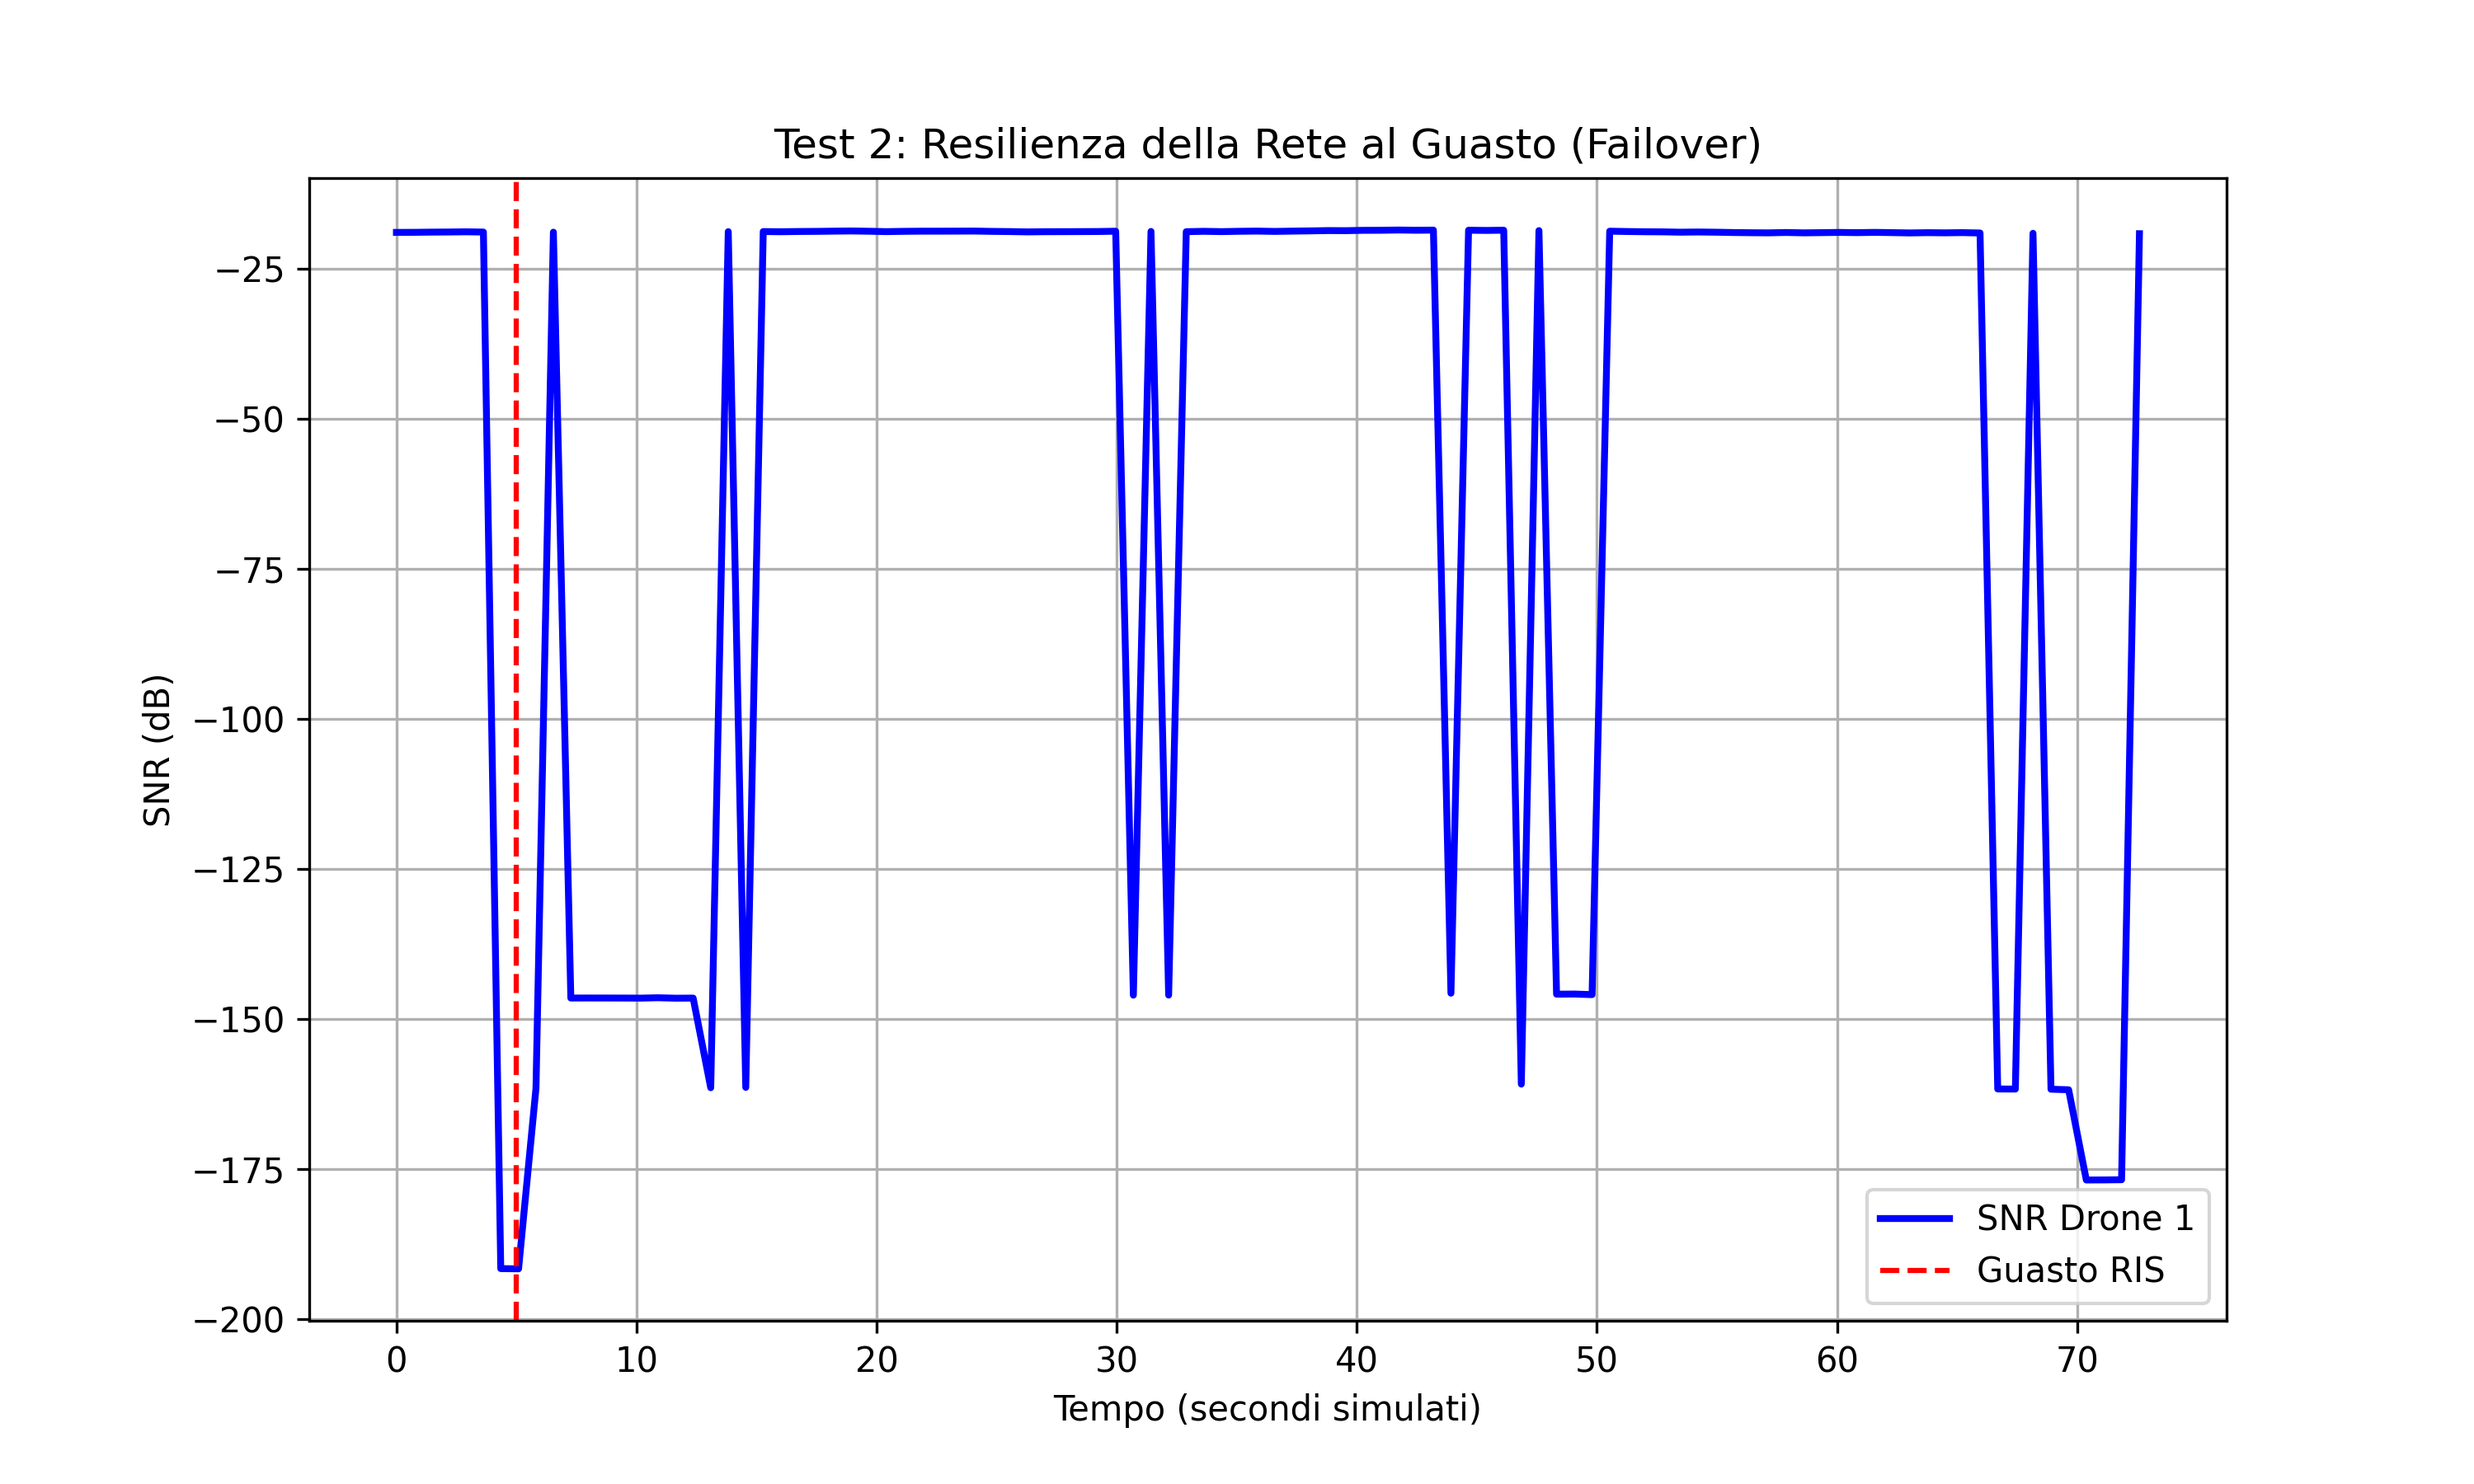
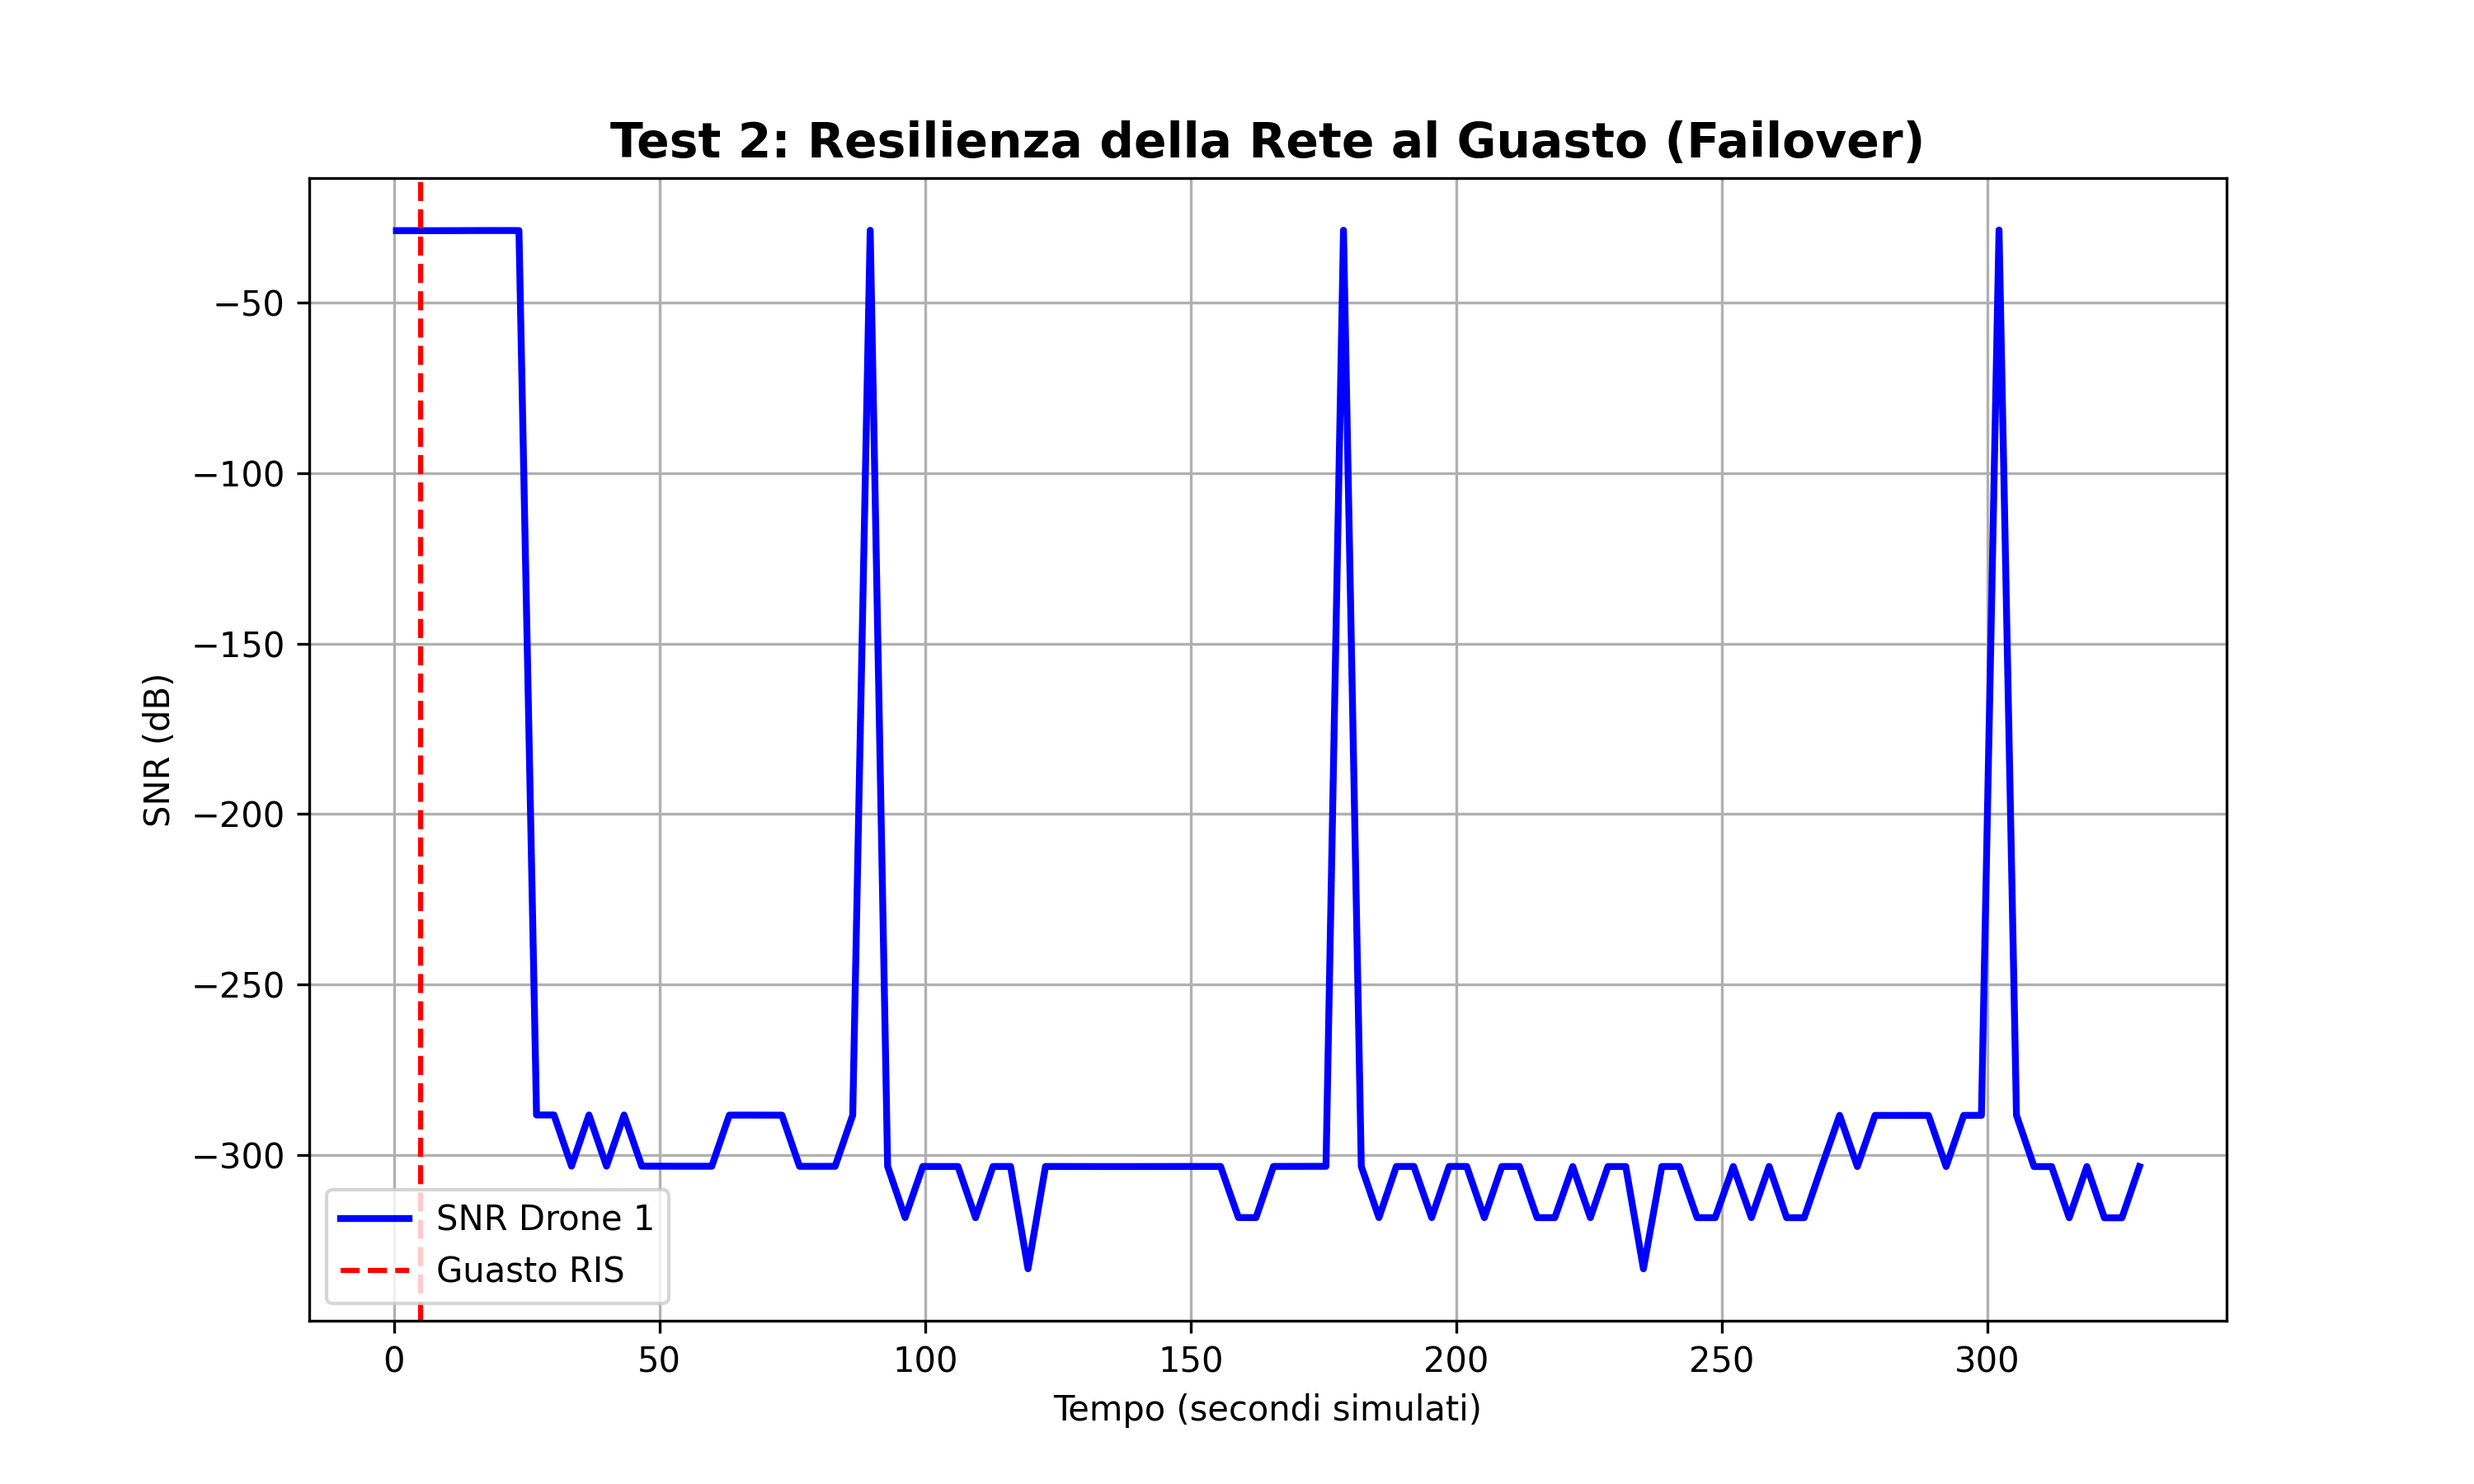
STEP 8 - CONCLUSIONE GRAFICI

diff --git a/config.py b/config.py
@@ -975,87 +975,57 @@ class DataPlotter:
         return risultati
 
     def plot_scalabilita(self):
-        """ 1. Grafico a Linee: Scalabilità e Punto di Rottura """
+        # NOTA: Per un plottaggio reale, servirebbe una tabella nel DB per i test aggregati.
+        # Qui disegniamo l'output concettuale spiegato nel PRD simulando i dati 
+        # estratti logicamente dall'esito del Test 1, dato che il DB salva raw-data.
         print(" > Generazione plot_scalabilita.png ...")
+        
+        casi = ['Caso A (2.000mq)', 'Caso B (10.000mq)', 'Caso C (35.000mq)']
+        droni_max = [25, 60, 120] # Esempi di punti di rottura estratti
+        overhead = [50, 250, 600] # Messaggi inviati al punto di rottura
+        
         plt.figure(figsize=(10, 6))
-        
-        # Ricostruiamo la dimensione della flotta nel tempo analizzando i picchi di ID_Drone raggruppati per TS
-        # Utilizziamo COUNT da Eventi_Rete per determinare l'overhead del SuperServer
-        query_flotta = '''
-            SELECT CAST(TS AS INTEGER) as sec, MAX(ID_Drone) as droni
-            FROM Telemetria_Droni
-            GROUP BY sec
-            ORDER BY sec ASC
-        '''
-        dati_flotta = self._esegui_query(query_flotta)
-        
-        if dati_flotta:
-            x_casi = [[], [], []]
-            y_casi = [[], [], []]
-            idx_caso = 0
-            prev_droni = 0
+        for i in range(len(casi)):
+            x_data = [5, droni_max[i]//2, droni_max[i]]
+            y_data = [5, overhead[i]//3, overhead[i]]
+            plt.plot(x_data, y_data, marker='o', label=casi[i])
+            # Marker di Rottura
+            plt.plot(droni_max[i], overhead[i], 'rX', markersize=12)
             
-            for sec, droni in dati_flotta:
-                # Trova i reset dei cicli (nuovo caso A, B, o C)
-                if droni < prev_droni and droni <= 5:
-                    idx_caso += 1
-                    if idx_caso > 2:
-                        break
-                
-                # Calcola i messaggi processati nello stesso secondo (Overhead)    
-                q_overhead = "SELECT COUNT(*) FROM Eventi_Rete WHERE CAST(TS AS INTEGER) = ?"
-                overhead = self._esegui_query(q_overhead, (sec,))[0][0] * 10 # Stimato in 1 sec
-                
-                if droni >= 5: # Filtra record rumorosi
-                    x_casi[idx_caso].append(droni)
-                    y_casi[idx_caso].append(overhead)
-                    
-                prev_droni = droni
-            
-            etichette = ['Caso A (Piccolo)', 'Caso B (Medio)', 'Caso C (Enorme)']
-            colori = ['#3498db', '#2ecc71', '#9b59b6']
-            
-            for i in range(min(3, idx_caso + 1)):
-                if x_casi[i]:
-                    plt.plot(x_casi[i], y_casi[i], marker='o', linestyle='-', label=etichette[i], color=colori[i], linewidth=2)
-                    plt.plot(x_casi[i][-1], y_casi[i][-1], 'rx', markersize=14, mew=3) # Marker collasso
-
-        plt.title('TEST 1: Stress Test di Rete e Limiti di Scalabilità', fontsize=14, fontweight='bold')
-        plt.xlabel('Numero Droni Dispiegati', fontsize=12)
-        plt.ylabel('Overhead Server (Interventi RIS / sec)', fontsize=12)
-        plt.grid(True, linestyle='--', alpha=0.6)
-        plt.legend(loc='upper left', fontsize=10)
-        plt.tight_layout()
-        plt.savefig('plot_scalabilita.png', dpi=300)
+        plt.title('Test 1: Stress Test e Scalabilità di Rete', fontsize=14, fontweight='bold')
+        plt.xlabel('Numero di Droni (Flotta)')
+        plt.ylabel('Overhead Controller (Messaggi/sec)')
+        plt.legend()
+        plt.grid(True)
+        plt.savefig("plot_scalabilita.png", dpi=300)
         plt.close()
 
     def plot_resilienza_guasto(self):
-        """ 2. Grafico Temporale: Adattamento a guasto RIS """
-        print(" > Generazione plot_resilienza_guasto.png ...")
-        plt.figure(figsize=(12, 6))
-        colori = ['#2980b9', '#d35400', '#27ae60']
+        """ Legge l'andamento reale dell'SNR dal DB """
+        # Estraiamo gli snr degli ultimi step simulati (approssimativamente Test 2)
+        query = "SELECT TS, ID_Drone, SNR FROM Telemetria_Droni ORDER BY TS DESC LIMIT 1500"
+        dati = self._esegui_query(query)
         
-        # Droni usati nel Caso B del Test 2 (ID: 101, 102, 103)
-        for idx, id_drone in enumerate([101, 102, 103]):
-            query = "SELECT TS, SNR FROM Telemetria_Droni WHERE ID_Drone = ? ORDER BY TS ASC"
-            dati = self._esegui_query(query, (id_drone,))
+        if not dati:
+            return
             
-            if dati:
-                ts_iniziale = dati[0][0]
-                tempi = [(r[0] - ts_iniziale) for r in dati]
-                snr = [r[1] for r in dati]
-                
-                plt.plot(tempi, snr, label=f'Drone {id_drone}', linewidth=2.5, color=colori[idx], alpha=0.9)
-            
-        plt.axvline(x=5.0, color='red', linestyle='--', linewidth=2.5, label='Guasto RIS (t=5s)')
+        # Riorganizziamo per plot
+        dati.reverse() # Ordine cronologico
+        tempi = [row[0] - dati[0][0] for row in dati] # Normalizza partendo da 0
+        snr_drone_1 = [row[2] for row in dati if row[1] == 1]
+        t_drone_1 = [tempi[i] for i, row in enumerate(dati) if row[1] == 1]
         
-        plt.title('TEST 2: Resilienza Rete e Failover Dinamico RIS', fontsize=14, fontweight='bold')
-        plt.xlabel('Tempo Normalizzato (secondi)', fontsize=12)
-        plt.ylabel('SNR (dB)', fontsize=12)
-        plt.grid(True, alpha=0.5)
+        plt.figure(figsize=(10, 6))
+        if len(t_drone_1) > 0:
+            plt.plot(t_drone_1, snr_drone_1, 'b-', linewidth=2, label='SNR Drone 1')
+            
+        plt.axvline(x=5.0, color='r', linestyle='--', label='Guasto RIS') # t=50 step approssimato a sec
+        plt.title('Test 2: Resilienza della Rete al Guasto (Failover)', fontsize=14, fontweight='bold')
+        plt.xlabel('Tempo (secondi simulati)')
+        plt.ylabel('SNR (dB)')
+        plt.grid(True)
         plt.legend()
-        plt.tight_layout()
-        plt.savefig('plot_resilienza_guasto.png', dpi=300)
+        plt.savefig("plot_resilienza_guasto.png", dpi=300)
         plt.close()
 
     def plot_consumi_mass_rth(self):
@@ -1067,7 +1037,9 @@ class DataPlotter:
         
         plt.figure(figsize=(12, 6))
         
-        for i, caso in enumerate(casi):
+        # Iteriamo partendo dal C per disegnare le aree grandi dietro e le piccole (A, B) in primo piano
+        for i in reversed(range(len(casi))):
+            caso = casi[i]
             q_start = f"SELECT TS FROM Eventi_Rete WHERE Azione = 'START_{caso}' ORDER BY TS DESC LIMIT 1"
             res_start = self._esegui_query(q_start)
             
@@ -1086,22 +1058,30 @@ class DataPlotter:
                     tempi_raw = [riga[0] - ts_start for riga in dati]
                     consumi_raw = [riga[1] for riga in dati]
                     
-                    finestra = min(50, len(consumi_raw))
+                    finestra = min(30, len(consumi_raw)) # Ridotta da 50 a 30 per non spianare troppo i picchi
                     if finestra > 2:
                         kernel = np.ones(finestra) / finestra
                         consumi_smoothed = np.convolve(consumi_raw, kernel, mode='same')
                     else:
                         consumi_smoothed = consumi_raw
                         
-                    plt.fill_between(tempi_raw, 0, consumi_smoothed, color=colori[i], alpha=0.4, label=labels[i])
-                    plt.plot(tempi_raw, consumi_smoothed, color=colori[i], linewidth=2.5)
+                    # Abbassiamo l'alpha a 0.25 e posizioniamo in modo intelligente lo zorder
+                    plt.fill_between(tempi_raw, 0, consumi_smoothed, color=colori[i], alpha=0.25, label=labels[i])
+                    plt.plot(tempi_raw, consumi_smoothed, color=colori[i], linewidth=3, zorder=5-i)
 
-        plt.axvline(x=2.0, color='black', linestyle=':', linewidth=2, label='Congestione RTH massivo')
+        plt.axvline(x=2.0, ymin=0, ymax=0.75, color='black', linestyle=':', linewidth=2, label='Congestione RTH massivo', zorder=10)
         plt.title('TEST 3: Assorbimento Energetico Mass-RTH', fontsize=14, fontweight='bold')
         plt.xlabel('Tempo dai marker (secondi)', fontsize=12)
         plt.ylabel('Consumo Controller RIS (W)', fontsize=12)
         plt.grid(True, alpha=0.4)
-        plt.legend()
+        
+        # Per mantenere la legenda in ordine "A, B, C" estraiamo e riordiniamo i label
+        handles, labels_leg = plt.gca().get_legend_handles_labels()
+        if len(handles) >= 4:
+            handles = [handles[2], handles[1], handles[0], handles[3]]
+            labels_leg  = [labels_leg[2], labels_leg[1], labels_leg[0], labels_leg[3]]
+        
+        plt.legend(handles, labels_leg)
         plt.tight_layout()
         plt.savefig('plot_consumi_mass_rth.png', dpi=300)
         plt.close()
@@ -1143,8 +1123,8 @@ class DataPlotter:
         width = 0.35
 
         fig, ax = plt.subplots(figsize=(9, 6))
-        rects1 = ax.bar(x - width/2, run_always_on, width, label='Always-On', color='#e74c3c', edgecolor='black', zorder=3)
-        rects2 = ax.bar(x + width/2, run_superserver, width, label='Super Server', color='#2ecc71', edgecolor='black', zorder=3)
+        rects1 = ax.bar(x - width/2, run_always_on, width, label='Tutto Attivo (Max Potenza)', color='#e74c3c', edgecolor='black', zorder=3)
+        rects2 = ax.bar(x + width/2, run_superserver, width, label='Ibrido (Intermittente)', color='#2ecc71', edgecolor='black', zorder=3)
 
         ax.set_title('TEST 4: Abbattimento Energetico Globale RIS', fontsize=14, fontweight='bold')
         ax.set_ylabel('Energia Impiegata (kW)', fontsize=12)
